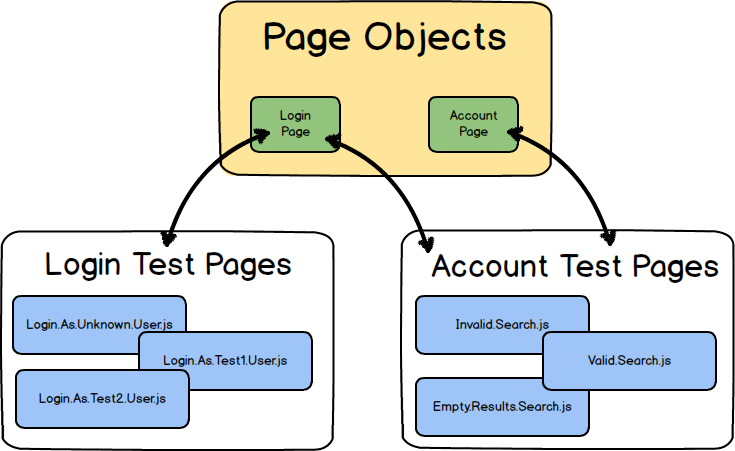
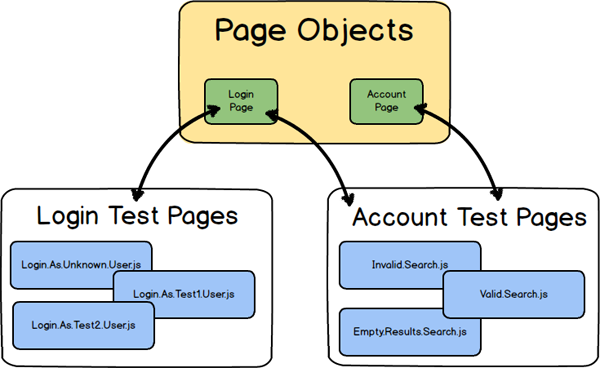
Add image for page object to slides

diff --git a/Casper.Mvc/Casper.Mvc/Slides/index.html b/Casper.Mvc/Casper.Mvc/Slides/index.html
@@ -1,4 +1,4 @@
-<!DOCTYPE html>
+<!DOCTYPE html>
 <html>
   <head>
     <title>CasperJS - Hands On</title>
@@ -21,7 +21,7 @@
     </style>
   </head>
   <body>
-    <textarea id="source">
+  <textarea id="source">
 
 class: center, middle
 
@@ -285,19 +285,9 @@ $ casperjs test --fail-fast .
 ````
         
 ---
-
+        
 #Page Object Pattern
-
-````
-Within your web application UI there are areas that your tests interact with. A Page Object simply
-models these as objects within the test code. This reduces the amount of duplicated code
-and means that if the UI changes, the fix need only be applied in one place.
-````
-
-### Some useful links
-  - https://code.google.com/p/selenium/wiki/PageObjects
-  - http://martinfowler.com/bliki/PageObject.html
-  - http://jsebfranck.blogspot.co.uk/2014/03/page-object-pattern-with-casperjs.html
+.center[![](/slides/Page.Object.png)]
         
 ###DEMO        
 ````DOS
